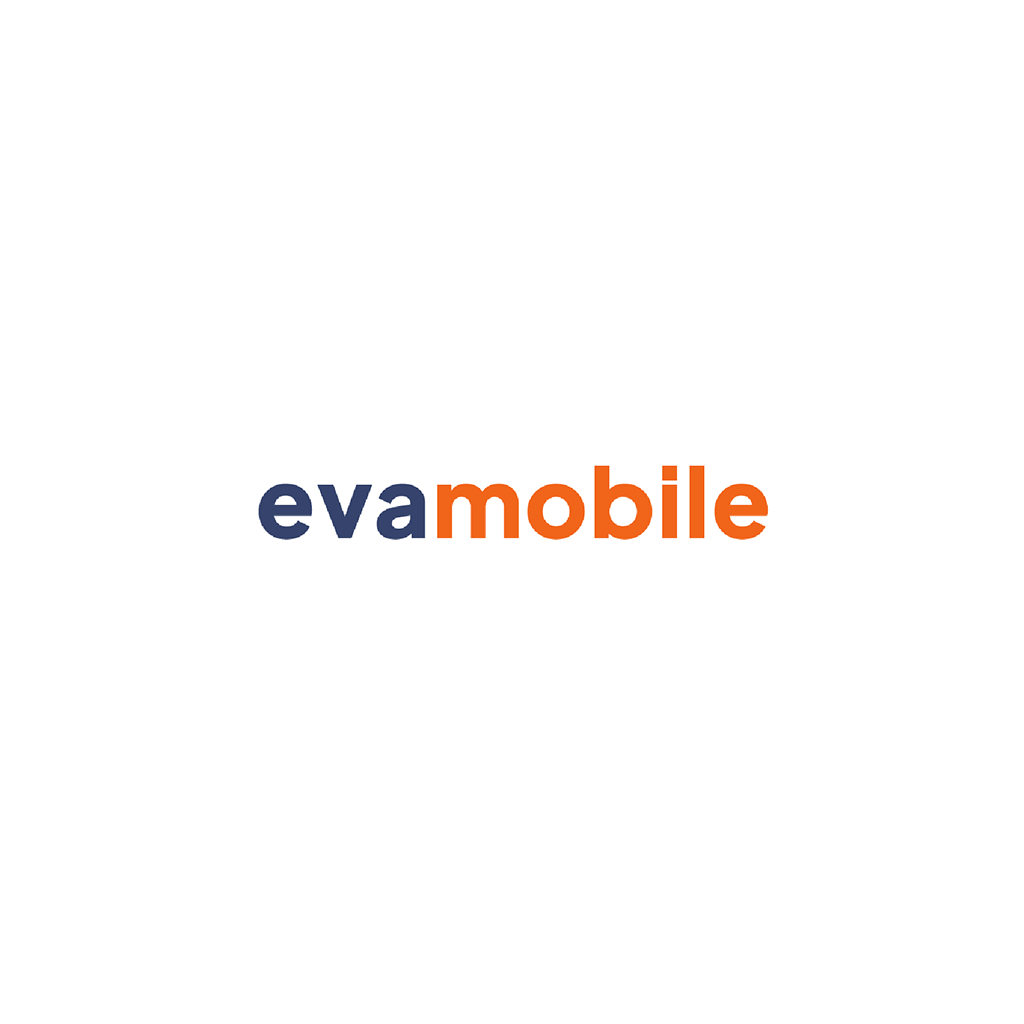
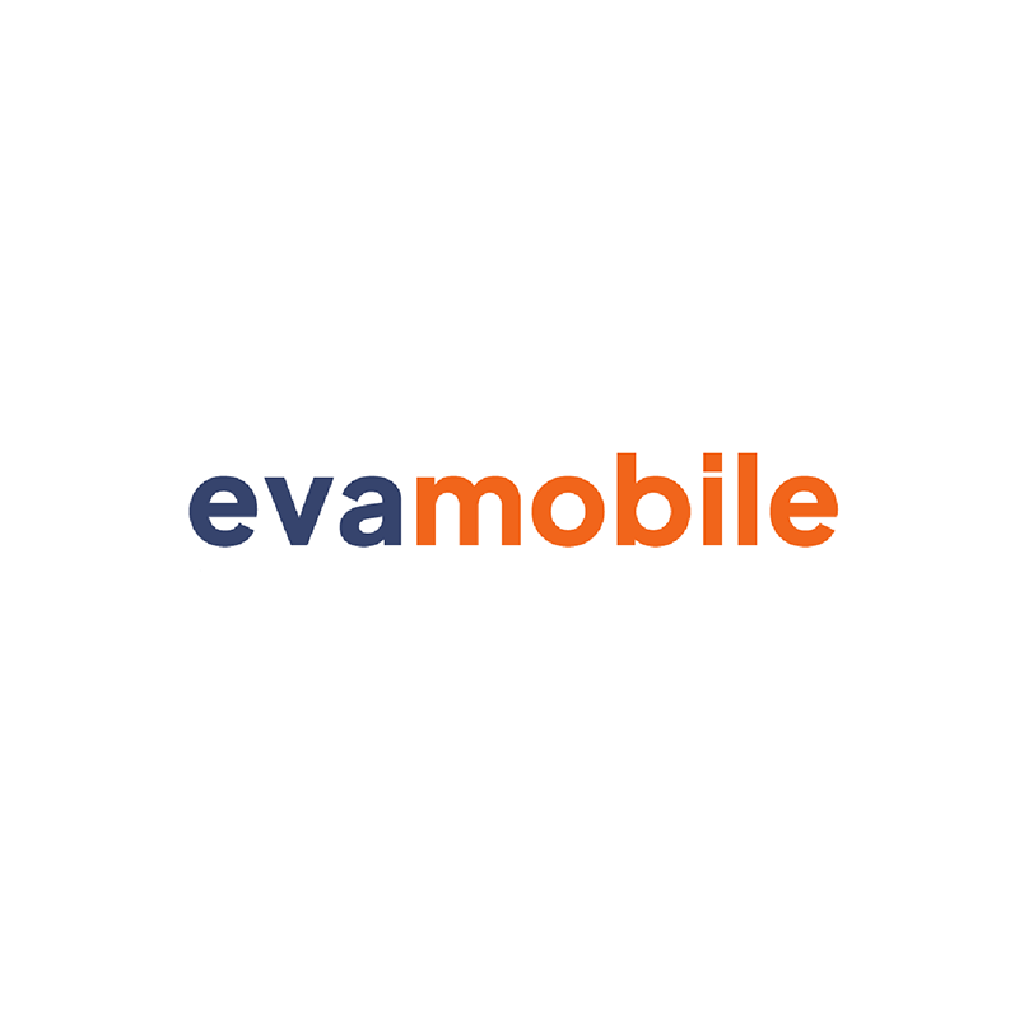
default image fix

Changed region(s): [[0.1875, 0.4375, 0.8438, 0.5312]]

diff --git a/app/screens/user.js b/app/screens/user.js
@@ -159,9 +159,9 @@ const styles = StyleSheet.create({
   },
   default: {
     alignSelf: "center",
-    width: "90%",
-    height: "90%",
+    width: "92%",
+    height: "92%",
     position: "absolute",
-    top: "2.5%",
+    top: "4%",
   },
 });
